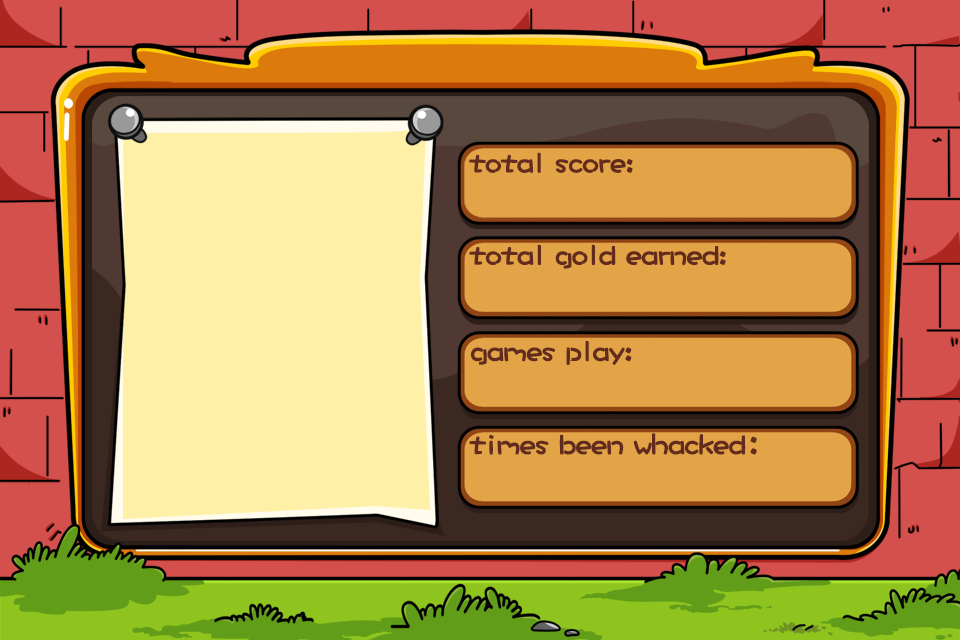
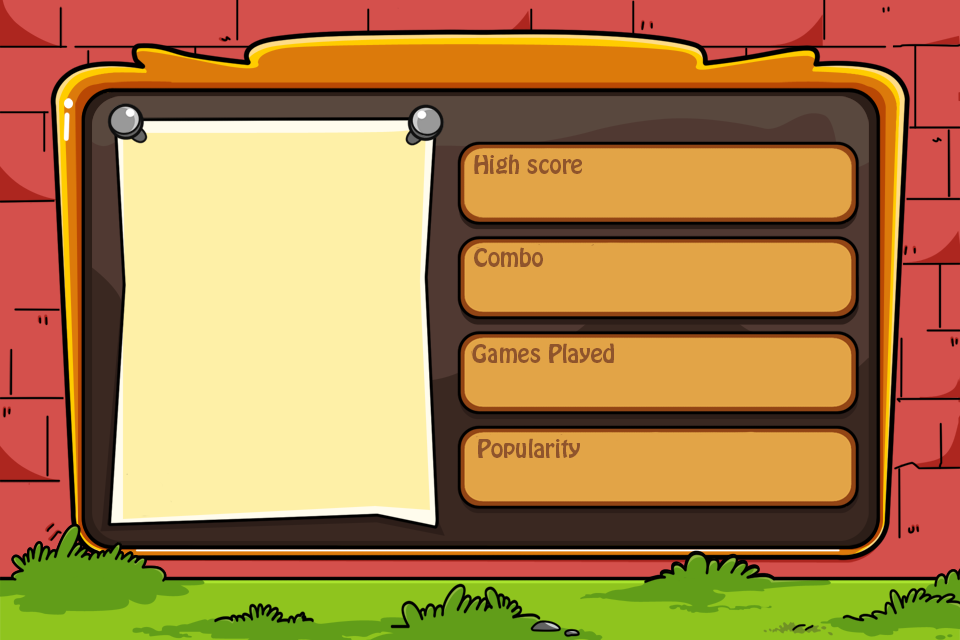
Updated graphics/ working on implementing highest_combo feature

diff --git a/WhackwhoNew/StatusViewController.m b/WhackwhoNew/StatusViewController.m
@@ -36,7 +36,7 @@
 
 @synthesize containerView;
 @synthesize faceView, bodyView;
-@synthesize popularity_lbl, total_gold_lbl, total_gp_lbl, high_score_lbl;
+@synthesize popularity_lbl, total_gp_lbl, high_score_lbl, high_combo_lbl;
 @synthesize cameraController, cameraOverlayView, overlay;
 @synthesize popoverController;
 
@@ -142,7 +142,7 @@ WhichTransition transitionType;
             
             //if popularity changes... then what
             [high_score_lbl setText:[self readPlist:@"High_Score"]];
-            [total_gold_lbl setText:[self readPlist:@"Bgs_Unlocked"]];
+            [high_combo_lbl setText:[self readPlist:@"Highest_Combo"]];
             [total_gp_lbl setText:[self readPlist:@"Games_Played"]];
             [popularity_lbl setText:[NSString stringWithFormat:@"%d",[[UserInfo sharedInstance] popularity]]];
             
@@ -232,7 +232,7 @@ WhichTransition transitionType;
     }
     
     [high_score_lbl setText:[self readPlist:@"High_Score"]];
-    [total_gold_lbl setText:[self readPlist:@"Bgs_Unlocked"]];
+    [high_combo_lbl setText:[self readPlist:@"Highest_Combo"]];
     [total_gp_lbl setText:[self readPlist:@"Games_Played"]];
 
 }

diff --git a/WhackwhoNew/StatusViewController.h b/WhackwhoNew/StatusViewController.h
@@ -20,7 +20,7 @@
     IBOutlet UILabel *popularity_lbl;
     IBOutlet UILabel *high_score_lbl;
     IBOutlet UILabel *total_gp_lbl;
-    IBOutlet UILabel *total_gold_lbl;
+    IBOutlet UILabel *high_combo_lbl;
     
     //define containerView subviews
     IBOutlet UIView *containerView;
@@ -57,7 +57,7 @@
 @property (nonatomic) IBOutlet UILabel *popularity_lbl;
 @property (nonatomic) IBOutlet UILabel *high_score_lbl;
 @property (nonatomic) IBOutlet UILabel *total_gp_lbl;
-@property (nonatomic) IBOutlet UILabel *total_gold_lbl;
+@property (nonatomic) IBOutlet UILabel *high_combo_lbl;
 @property (nonatomic, strong) CameraOverlayControllerViewController *overlay;
 @property (nonatomic, strong) UIImagePickerController *cameraController;
 @property (nonatomic, strong) UIImageView *cameraOverlayView;
